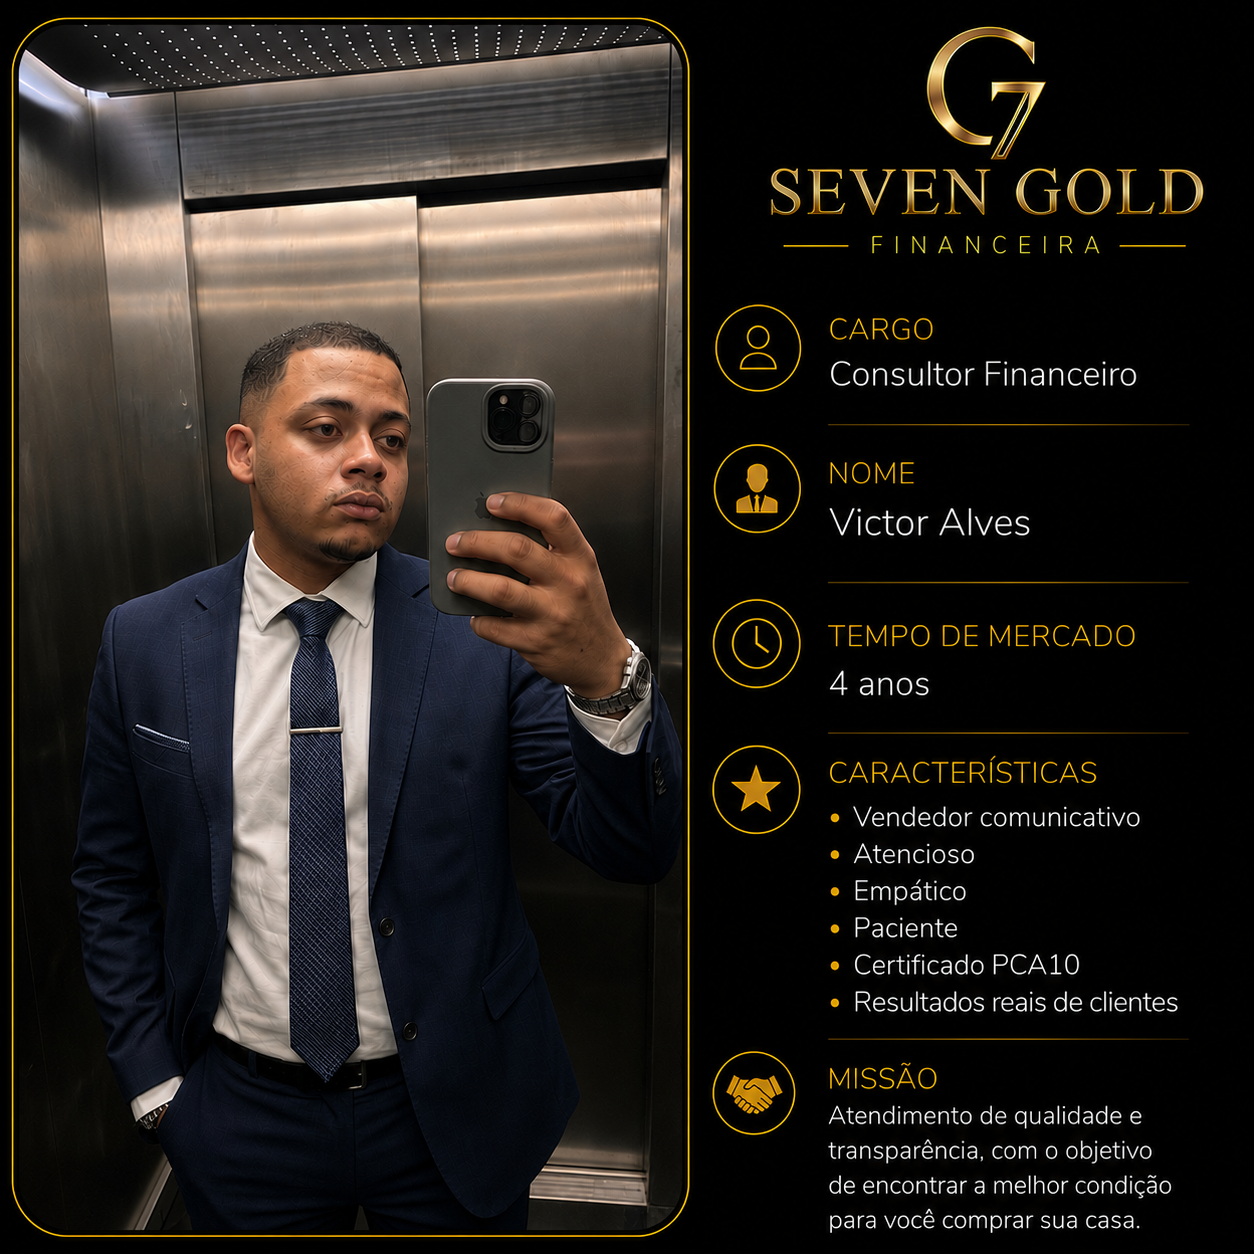
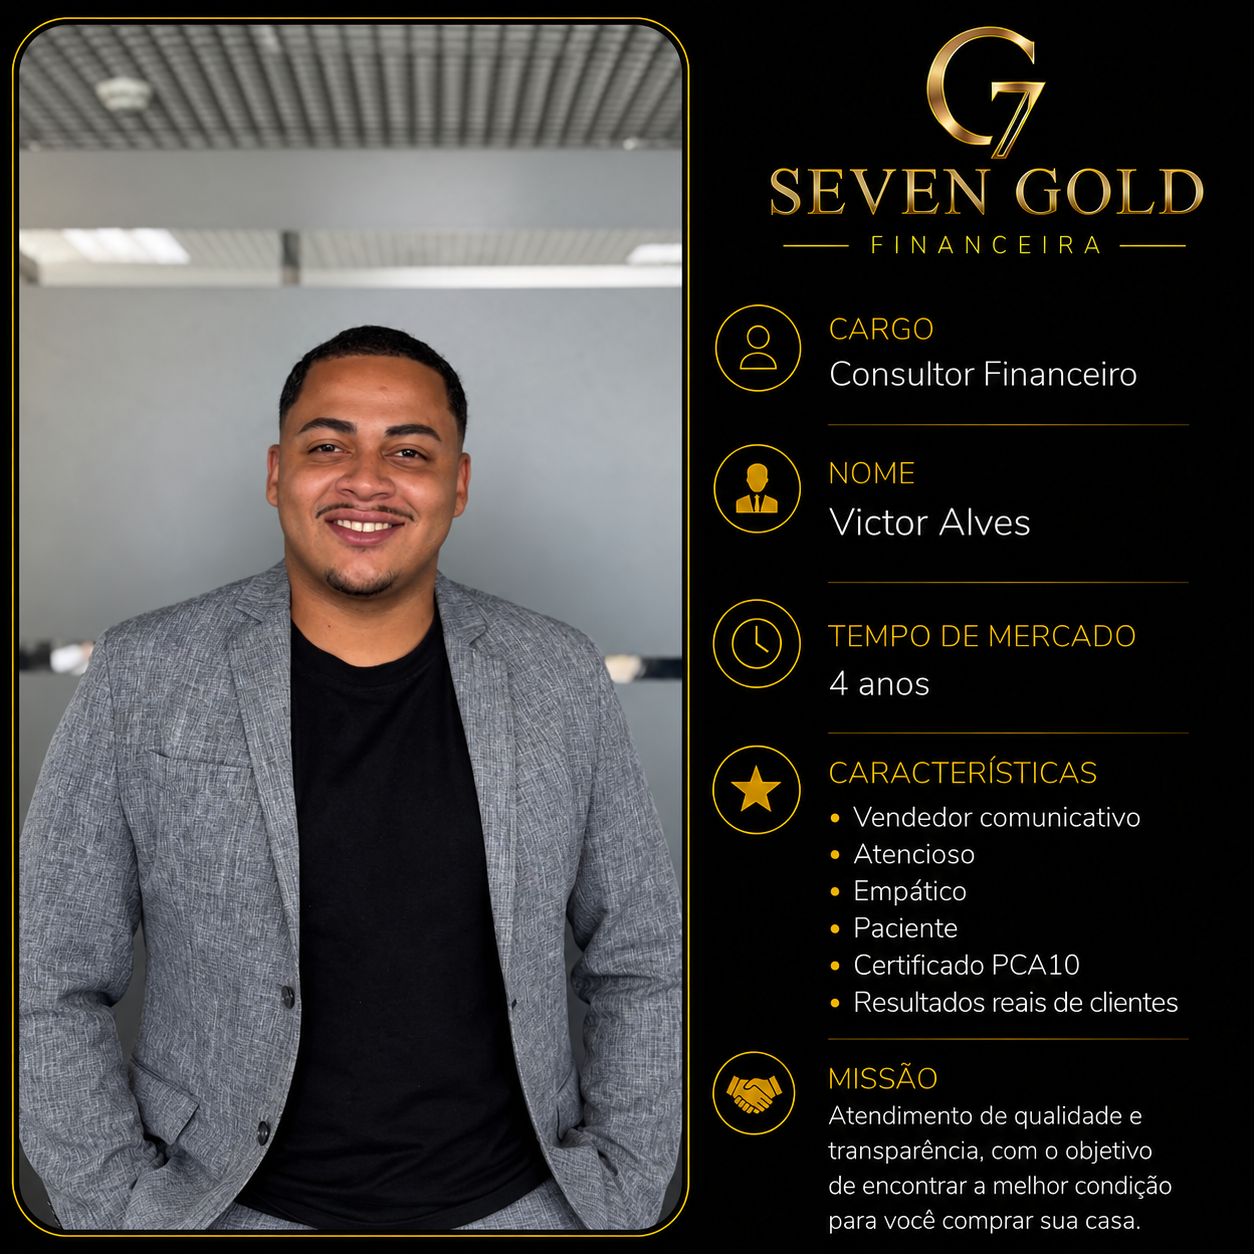
Atualiza Victor e adiciona Israel à equipe

diff --git a/index.html b/index.html
@@ -85,11 +85,12 @@
           <article class="specialist-card"><img src="assets/especialista-edivaldo-sobre-mim-20260821.png?v=20260821-2" alt="Apresentação profissional de Edivaldo Santana, Gerente Financeiro" /></article>
           <article class="specialist-card"><img src="assets/especialista-jonata-sobre-mim-20260721.png?v=20260821-2" alt="Apresentação profissional de Jonatã Santana, Coordenador Comercial" /></article>
           <article class="specialist-card"><img src="assets/especialista-felipe-sobre-mim-20260721.jpg" alt="Apresentação profissional de Felipe Lobato, Diretor Comercial" /></article>
-          <article class="specialist-card"><img src="assets/especialista-victor-sobre-mim-20260721.png" alt="Apresentação profissional de Victor Alves, Consultor Financeiro" /></article>
+          <article class="specialist-card"><img src="assets/especialista-victor-sobre-mim-20260721.png?v=20260925-1" alt="Apresentação profissional de Victor Alves, Consultor Financeiro" /></article>
           <article class="specialist-card"><img src="assets/especialista-atila-sobre-mim.png" alt="Apresentação profissional de Atíla Carvalho, Coordenador Comercial" /></article>
           <article class="specialist-card"><img src="assets/especialista-josiele-sobre-mim-20260925.png" alt="Apresentação profissional de Josiele Martins, Consultora Financeira" /></article>
           <article class="specialist-card"><img src="assets/especialista-lucas-sobre-mim-20260723.jpg" alt="Apresentação profissional de Lucas Vaz, Coordenador Comercial" /></article>
           <article class="specialist-card"><img src="assets/especialista-julia-sobre-mim-20260721.jpg" alt="Apresentação profissional de Julia Martins, Consultora Financeira" /></article>
+          <article class="specialist-card"><img src="assets/especialista-israel-sobre-mim-20260925.png" alt="Apresentação profissional de Israel Brito, Coordenador Comercial" /></article>
         </div>
         <button class="carousel-arrow carousel-next" type="button" aria-label="Próximo especialista">›</button>
         <div class="carousel-dots" aria-label="Escolher especialista"></div>
